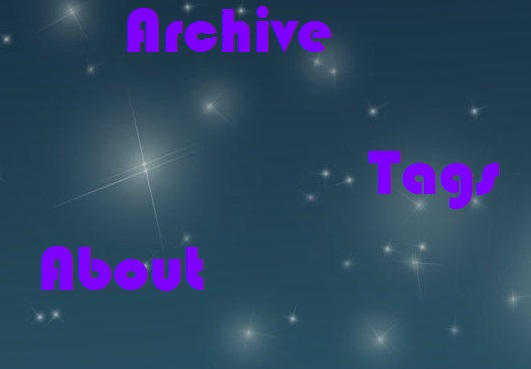
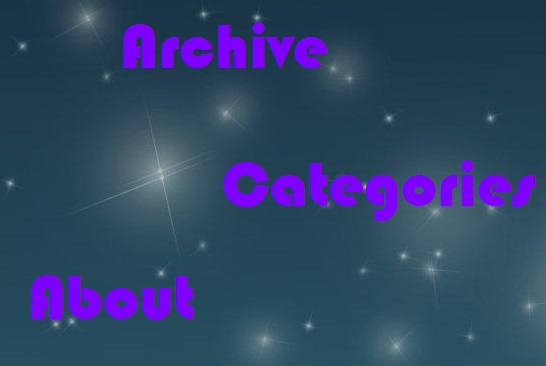
frame

diff --git a/posts/2015_11_14_Codeforces-Educational-Round-1.html b/posts/2015_11_14_Codeforces-Educational-Round-1.html
@@ -19,7 +19,7 @@
     <div class="wrapper">
       <header>
         <h1><a href="../index.html" target="_self"> &nbsp;&nbsp;&nbsp;&nbsp;&nbsp;Zhy's Blog~</a></h1>
-        <a href="../index.html"><img src = "../pics/Profile.png" width="232" height="227"></a>
+        <a href="../index.html"><img src = "../pics/Profile.jpg" width="232" height="227"></a>
 
 
         <p class="view"><a href="https://github.com/zhyack">&nbsp;&nbsp;&nbsp;&nbsp;&nbsp;&nbsp;&nbsp;&nbsp;&nbsp;&nbsp;&nbsp;View My GitHub Profile</a></p>
@@ -68,9 +68,9 @@
         <p><img src="../pics/foot.jpg" alt="" width="232" height="167" usemap="#Map"/>
           <map name="Map">
             <area shape="poly" coords="50,17" href="#">
-            <area shape="rect" coords="46,-7,153,27" href="../archive.html" target="_self" alt="archive">
-            <area shape="rect" coords="152,61,224,97" href="../tags.html" target="_self" alt="tags">
-            <area shape="rect" coords="12,105,95,137" href="../about.html" target="_self" alt="about">
+            <area shape="rect" coords="36,2,153,45" href="../archive.html" target="_self" alt="archive">
+            <area shape="rect" coords="89,63,229,106" href="../categories.html" target="_self" alt="tags">
+            <area shape="rect" coords="2,112,99,157" href="../about.html" target="_self" alt="about">
           </map>
         </p>
       </footer>

diff --git a/posts/2015_11_13_Prime-Factorization.html b/posts/2015_11_13_Prime-Factorization.html
@@ -124,9 +124,9 @@ int main(){
         <p><img src="../pics/foot.jpg" alt="" width="232" height="167" usemap="#Map"/>
           <map name="Map">
             <area shape="poly" coords="50,17" href="#">
-            <area shape="rect" coords="46,-7,153,27" href="../archive.html" target="_self" alt="archive">
-            <area shape="rect" coords="152,61,224,97" href="../tags.html" target="_self" alt="tags">
-            <area shape="rect" coords="12,105,95,137" href="../about.html" target="_self" alt="about">
+            <area shape="rect" coords="36,2,153,45" href="../archive.html" target="_self" alt="archive">
+            <area shape="rect" coords="89,63,229,106" href="../categories.html" target="_self" alt="tags">
+            <area shape="rect" coords="2,112,99,157" href="../about.html" target="_self" alt="about">
           </map>
         </p>
       </footer>

diff --git a/posts/2015_11_11_Codeforces.html b/posts/2015_11_11_Codeforces.html
@@ -44,9 +44,9 @@
         <p><img src="../pics/foot.jpg" alt="" width="232" height="167" usemap="#Map"/>
           <map name="Map">
             <area shape="poly" coords="50,17" href="#">
-            <area shape="rect" coords="46,-7,153,27" href="../archive.html" target="_self" alt="archive">
-            <area shape="rect" coords="152,61,224,97" href="../tags.html" target="_self" alt="tags">
-            <area shape="rect" coords="12,105,95,137" href="../about.html" target="_self" alt="about">
+            <area shape="rect" coords="36,2,153,45" href="../archive.html" target="_self" alt="archive">
+            <area shape="rect" coords="89,63,229,106" href="../categories.html" target="_self" alt="tags">
+            <area shape="rect" coords="2,112,99,157" href="../about.html" target="_self" alt="about">
           </map>
         </p>
       </footer>

diff --git a/posts/2015_11_12_Introduction-to-Programming-with-MATLAB.html b/posts/2015_11_12_Introduction-to-Programming-with-MATLAB.html
@@ -41,9 +41,9 @@
         <p><img src="../pics/foot.jpg" alt="" width="232" height="167" usemap="#Map"/>
           <map name="Map">
             <area shape="poly" coords="50,17" href="#">
-            <area shape="rect" coords="46,-7,153,27" href="../archive.html" target="_self" alt="archive">
-            <area shape="rect" coords="152,61,224,97" href="../tags.html" target="_self" alt="tags">
-            <area shape="rect" coords="12,105,95,137" href="../about.html" target="_self" alt="about">
+            <area shape="rect" coords="36,2,153,45" href="../archive.html" target="_self" alt="archive">
+            <area shape="rect" coords="89,63,229,106" href="../categories.html" target="_self" alt="tags">
+            <area shape="rect" coords="2,112,99,157" href="../about.html" target="_self" alt="about">
           </map>
         </p>
       </footer>

diff --git a/about.html b/about.html
@@ -56,9 +56,9 @@
         <p><img src="pics/foot.jpg" alt="" width="232" height="167" usemap="#Map"/>
           <map name="Map">
             <area shape="poly" coords="50,17" href="#">
-            <area shape="rect" coords="46,-7,153,27" href="archive.html" target="_self" alt="archive">
-            <area shape="rect" coords="152,61,224,97" href="tags.html" target="_self" alt="tags">
-            <area shape="rect" coords="12,105,95,137" href="about.html" target="_self" alt="about">
+            <area shape="rect" coords="36,2,153,45" href="archive.html" target="_self" alt="archive">
+            <area shape="rect" coords="89,63,229,106" href="categories.html" target="_self" alt="tags">
+            <area shape="rect" coords="2,112,99,157" href="about.html" target="_self" alt="about">
           </map>
         </p>
       </footer>

diff --git a/archive.html b/archive.html
@@ -49,9 +49,9 @@
         <p><img src="pics/foot.jpg" alt="" width="232" height="167" usemap="#Map"/>
           <map name="Map">
             <area shape="poly" coords="50,17" href="#">
-            <area shape="rect" coords="46,-7,153,27" href="archive.html" target="_self" alt="archive">
-            <area shape="rect" coords="152,61,224,97" href="tags.html" target="_self" alt="tags">
-            <area shape="rect" coords="12,105,95,137" href="about.html" target="_self" alt="about">
+            <area shape="rect" coords="36,2,153,45" href="archive.html" target="_self" alt="archive">
+            <area shape="rect" coords="89,63,229,106" href="categories.html" target="_self" alt="tags">
+            <area shape="rect" coords="2,112,99,157" href="about.html" target="_self" alt="about">
           </map>
         </p>
       </footer>

diff --git a/categories.html b/categories.html
@@ -55,9 +55,9 @@
         <p><img src="pics/foot.jpg" alt="" width="232" height="167" usemap="#Map"/>
           <map name="Map">
             <area shape="poly" coords="50,17" href="#">
-            <area shape="rect" coords="46,-7,153,27" href="archive.html" target="_self" alt="archive">
-            <area shape="rect" coords="152,61,224,97" href="tags.html" target="_self" alt="tags">
-            <area shape="rect" coords="12,105,95,137" href="about.html" target="_self" alt="about">
+            <area shape="rect" coords="36,2,153,45" href="archive.html" target="_self" alt="archive">
+            <area shape="rect" coords="89,63,229,106" href="categories.html" target="_self" alt="tags">
+            <area shape="rect" coords="2,112,99,157" href="about.html" target="_self" alt="about">
           </map>
         </p>
       </footer>

diff --git a/index.html b/index.html
@@ -51,9 +51,9 @@
         <p><img src="pics/foot.jpg" alt="" width="232" height="167" usemap="#Map"/>
           <map name="Map">
             <area shape="poly" coords="50,17" href="#">
-            <area shape="rect" coords="46,-7,153,27" href="archive.html" target="_self" alt="archive">
-            <area shape="rect" coords="152,61,224,97" href="tags.html" target="_self" alt="tags">
-            <area shape="rect" coords="12,105,95,137" href="about.html" target="_self" alt="about">
+            <area shape="rect" coords="36,2,153,45" href="archive.html" target="_self" alt="archive">
+            <area shape="rect" coords="89,63,229,106" href="categories.html" target="_self" alt="tags">
+            <area shape="rect" coords="2,112,99,157" href="about.html" target="_self" alt="about">
           </map>
         </p>
       </footer>
